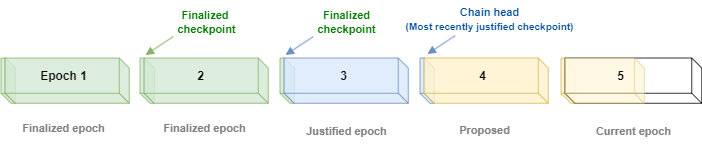
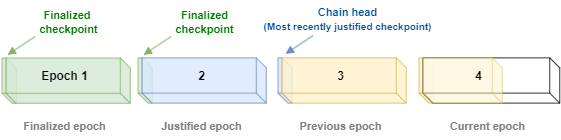
s

diff --git a/website/docs/concepts/checkpoint-sync-concept.md b/website/docs/concepts/checkpoint-sync-concept.md
@@ -71,7 +71,7 @@ A block is **justified** after:
  1. More than 2/3 of attesting validators agree that the block is a justified checkpoint, or
  2. A **future checkpoint** becomes justified, and the block is an ancestor of that newly justified checkpoint.
 
-A block becomes **finalized** after either:
+A block is **finalized** after either:
 
  1. The block is a **justified checkpoint** and 2/3 of attesting validators identify another justified checkpoint in a future epoch, or
  2. A **future epoch's justified checkpoint** becomes finalized, and the block is an ancestor of that newly finalized checkpoint.
@@ -83,10 +83,9 @@ Epochs are used to identify checkpoints, and checkpoints are used to implement t
 The above epochs can be described as follows:
 
 1. **Epoch 1**: All blocks are finalized.
-2. **Epoch 2**: All blocks are justified, and its first block is finalized. This epoch's first block is Ethereum's most recently finalized checkpoint.
-3. **Epoch 3**: All blocks are justified, including the block in its first slot. This epoch's first block is a justified checkpoint. This justified checkpoint could become the next finalized checkpoint.
-4. **Epoch 4**: All blocks are proposed, only the first has been justified. This epoch's first block is also a justified checkpoint, and it also could become the next finalized checkpoint.
-5. **Epoch 5**: In progress - blocks are being proposed, none are justified. Its first block could become a finalized checkpoint, but only after it becomes a justified checkpoint.
+2. **Epoch 2**: The first block is finalized, because the following epoch's checkpoint was justified. The rest of the blocks are justified. This epoch's first block is the most recently finalized checkpoint.
+3. **Epoch 3**: All blocks are proposed, only the first has been justified. This epoch's first block is also the most recently justified checkpoint, and thus, is the head of the chain.
+4. **Epoch 4**: Blocks are being proposed, none are justified. Its first block could become a justified checkpoint, but only after the epoch ends.
 
 Let's imagine that Bob wants to send Alice some ETH. In the happy scenario, Bob's transaction would flow through the following (oversimplified) transaction lifecycle:
 
